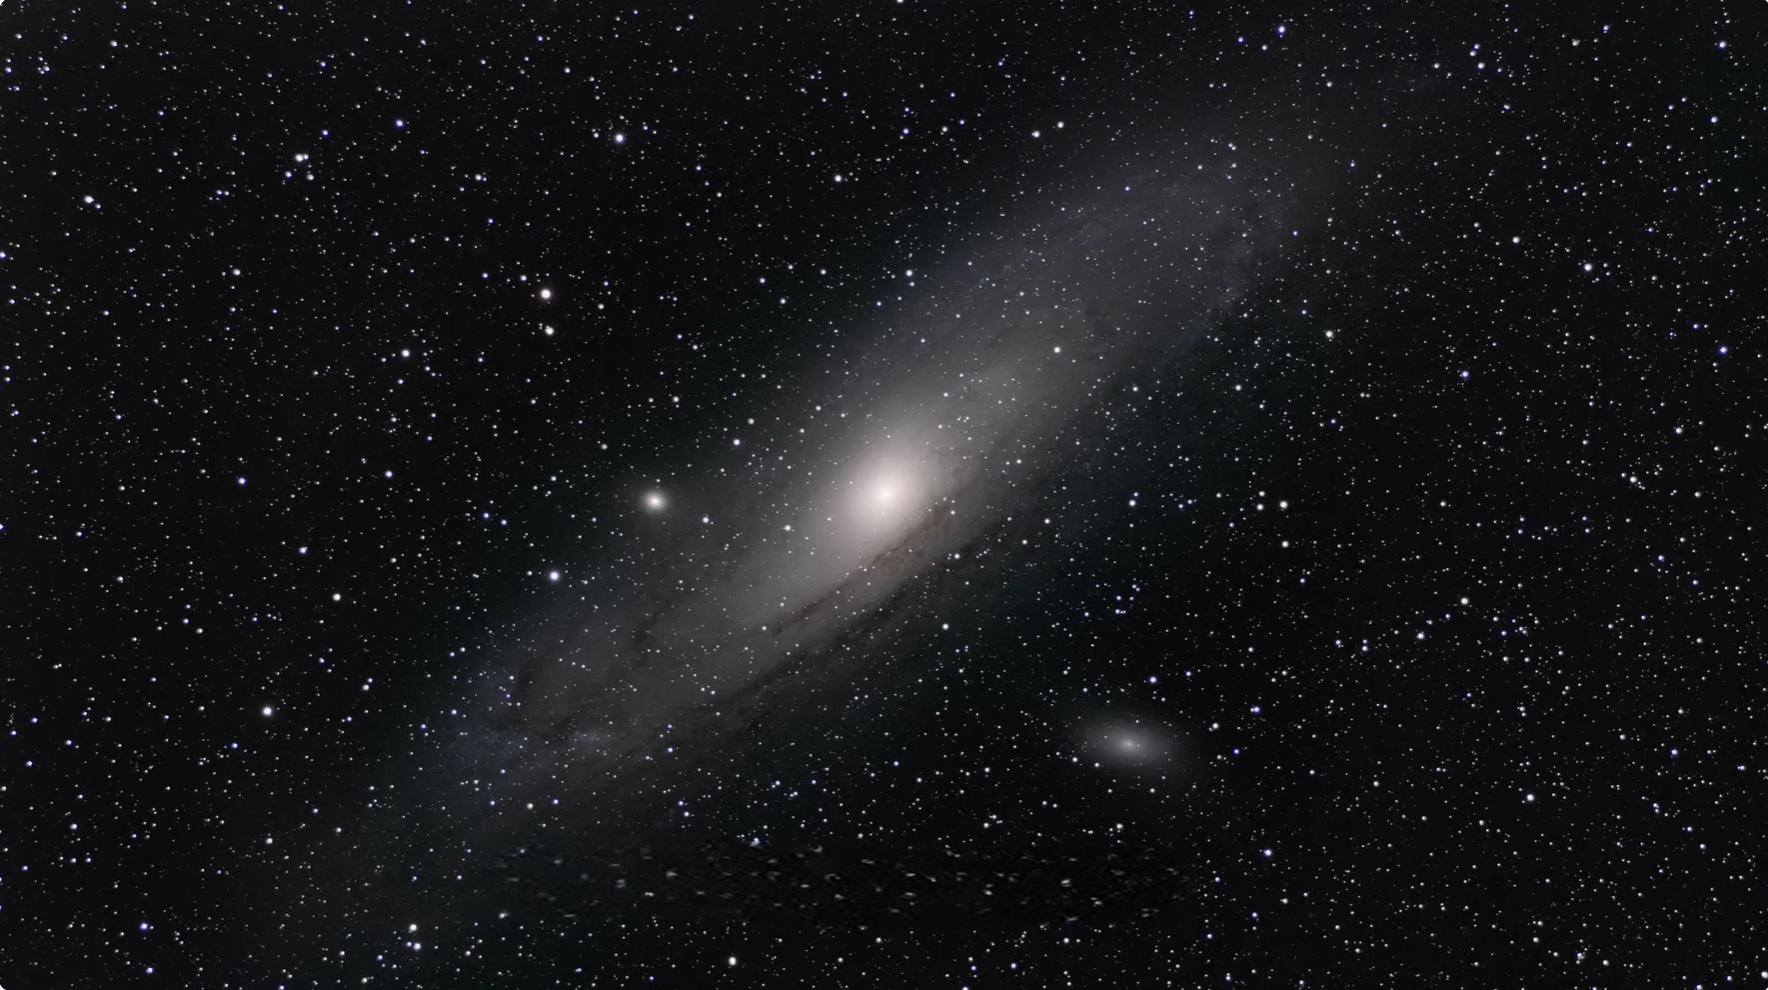
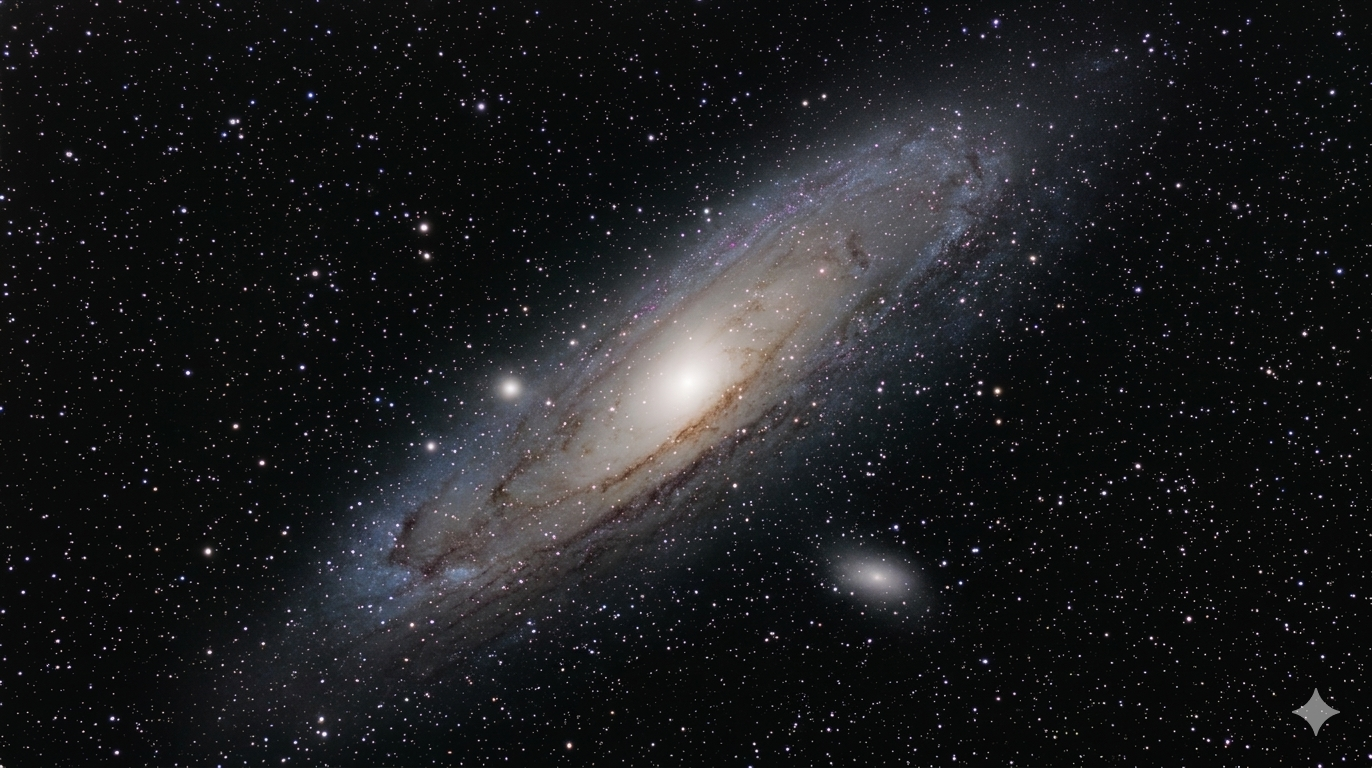
存档，接下来要对界面进行优化

diff --git a/src/App.jsx b/src/App.jsx
@@ -1,8 +1,8 @@
 import { useState, useCallback, useEffect } from 'react'
-import GalaxyBackground from './components/GalaxyBackground'
 import SessionList from './components/SessionList'
 import TerminalCanvas from './components/TerminalCanvas'
 import SplashScreen from './components/SplashScreen'
+import GalaxyBackground from './components/GalaxyBackground'
 import TopMenuBar from './components/TopMenuBar'
 import RightMusicSidebar from './components/RightMusicSidebar'
 import useMusicController from './hooks/useNeteaseMusicController'
@@ -147,7 +147,7 @@ export default function App() {
           {/* Status bar */}
           <div
             className="h-6 border-t border-white/5 flex items-center px-4 shrink-0"
-            style={{ background: 'rgba(8, 8, 24, 0.25)' }}
+            style={{ background: 'rgba(8, 8, 24, 0.10)' }}
           >
             <span className="text-[10px] text-cosmos-dim/60">
               {sessions.length} session{sessions.length !== 1 ? 's' : ''}

diff --git a/src/App.css b/src/App.css
@@ -30,7 +30,7 @@ html, body, #root {
   content: '';
   position: absolute;
   inset: 0;
-  background: rgba(6, 6, 15, 0.2);
+  background: rgba(6, 6, 15, 0.10);
 }
 
 /* --- Glass panels for text readability --- */

diff --git a/src/components/TerminalCanvas.jsx b/src/components/TerminalCanvas.jsx
@@ -8,7 +8,7 @@ import SearchBar from './SearchBar'
 import useAudioEngine from '../hooks/useAudioEngine'
 
 const COSMIC_THEME = {
-  background: 'rgba(8, 8, 24, 0.35)',
+  background: 'rgba(8, 8, 24, 0.10)',
   foreground: '#e0e0f0',
   cursor: '#a78bfa',
   cursorAccent: '#06060f',